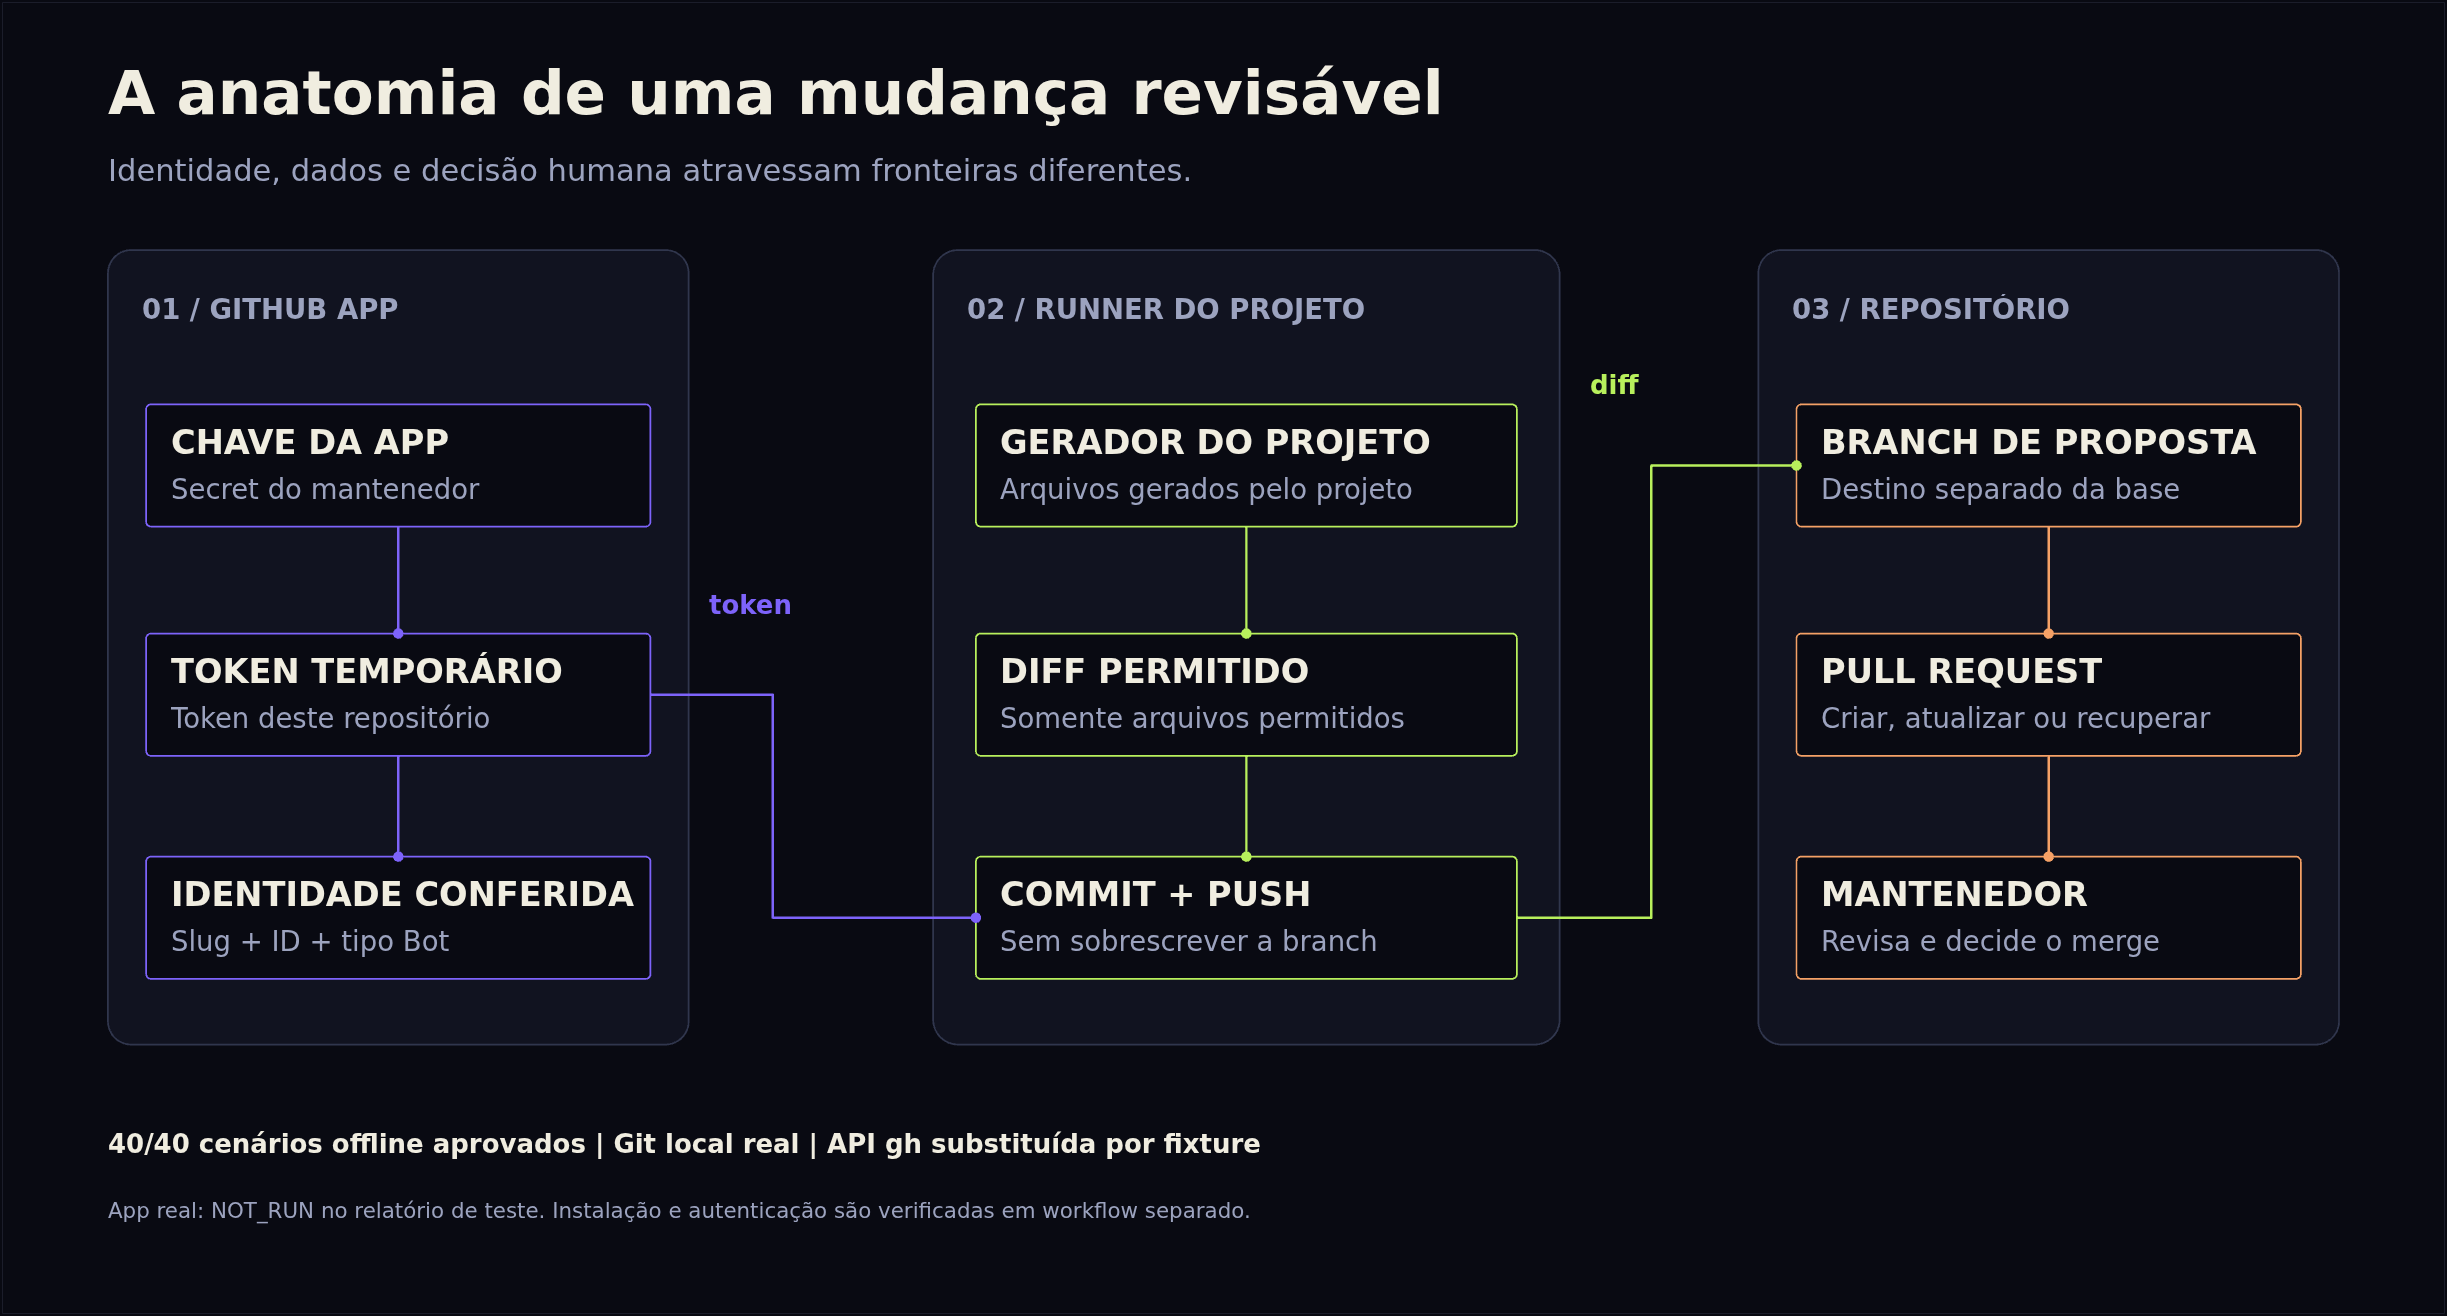
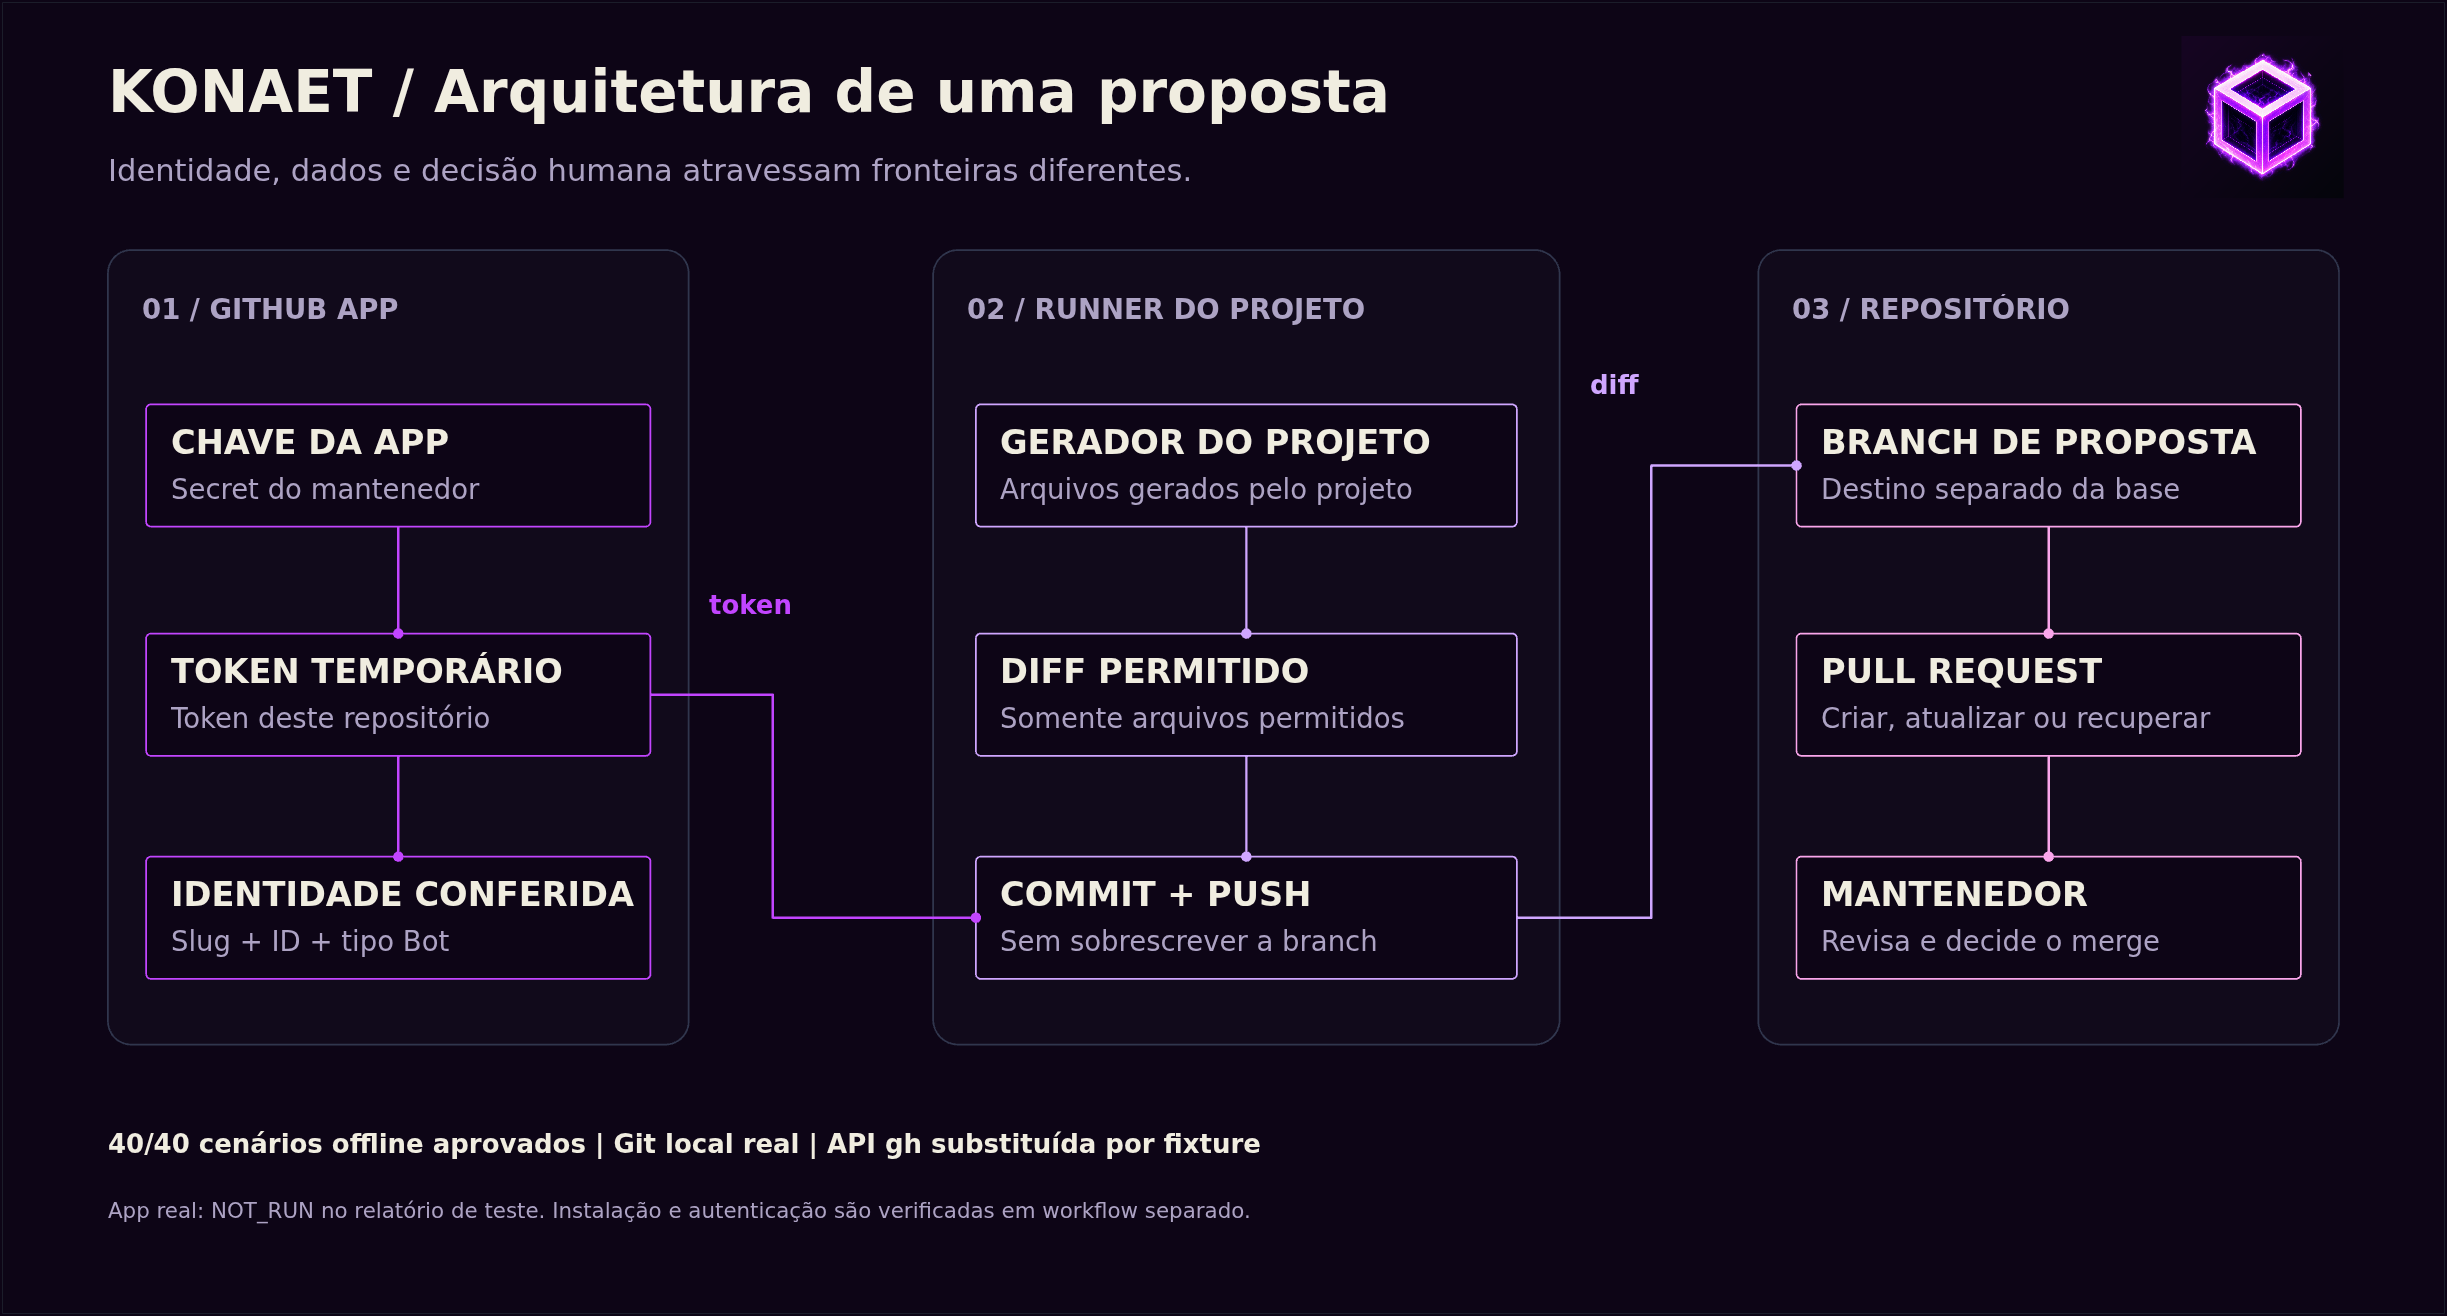
Publicar vitrine KONAET e evidencias da marca original

diff --git a/docs/VALIDATION.md b/docs/VALIDATION.md
@@ -2,7 +2,7 @@
 
 A suíte está em [`tests/run_konaet_tests.m`](../tests/run_konaet_tests.m). Ela extrai os scripts dos próprios arquivos `action.yml`, evitando manter uma segunda implementação do módulo nos testes.
 
-A revisão `48c32ef033788bb527e85242dc95ffd04179858d` completou **40/40 cenários offline**, com zero falhas. O [registro da execução](https://github.com/7dsolv/konaet-bot/actions/runs/41720256943) também contém o teste nativo do composite e a geração da vitrine. O campo `revision` do relatório identifica a origem dos números exibidos nas imagens.
+A revisão `25cde3e41502023ea2c5c78730bc153bbdce2f96` completou **40/40 cenários offline**, com zero falhas. O [registro da execução](https://github.com/7dsolv/konaet-bot/actions/runs/41724466003) também contém o teste nativo do composite, a geração da vitrine com a marca KONAET e a verificação das mídias geradas. O campo `revision` do relatório identifica a origem dos números exibidos nas imagens.
 
 | Grupo | O que é exercitado |
 | --- | --- |
@@ -18,6 +18,8 @@ A revisão `48c32ef033788bb527e85242dc95ffd04179858d` completou **40/40 cenário
 Os remotos são repositórios Git bare em diretórios temporários. O comando `gh` é um fixture local que registra chamadas e produz respostas controladas. Os testes não usam credenciais nem fazem chamadas ao GitHub. Cada cenário registra resultado e duração no [relatório da vitrine](../assets/test-report.json); a revisão testada fica no campo `revision`.
 
 O CI também executa o módulo composite diretamente no runner, com outro remoto bare local e API de teste, para conferir entradas e saídas da integração do GitHub Actions. Essa checagem é independente da chamada de subprocessos pelo MATLAB. Actionlint/ShellCheck verificam os workflows e o contrato JSON é conferido. O renderer verifica a quantidade e o tamanho uniforme dos quadros do GIF e impõe orçamento de 8 MiB para a animação.
+
+A marca é o cubo roxo original de `7dsolv/konaet-cover`, com origem fixada em revisão e SHA-256. O CI confere esse hash, a identificação **KONAET** no manifesto e a igualdade byte a byte entre o ícone publicado e o arquivo de origem. A capa, o diagrama e a animação usam a mesma imagem; a composição final também foi inspecionada visualmente.
 
 ## Verificação real separada
 
